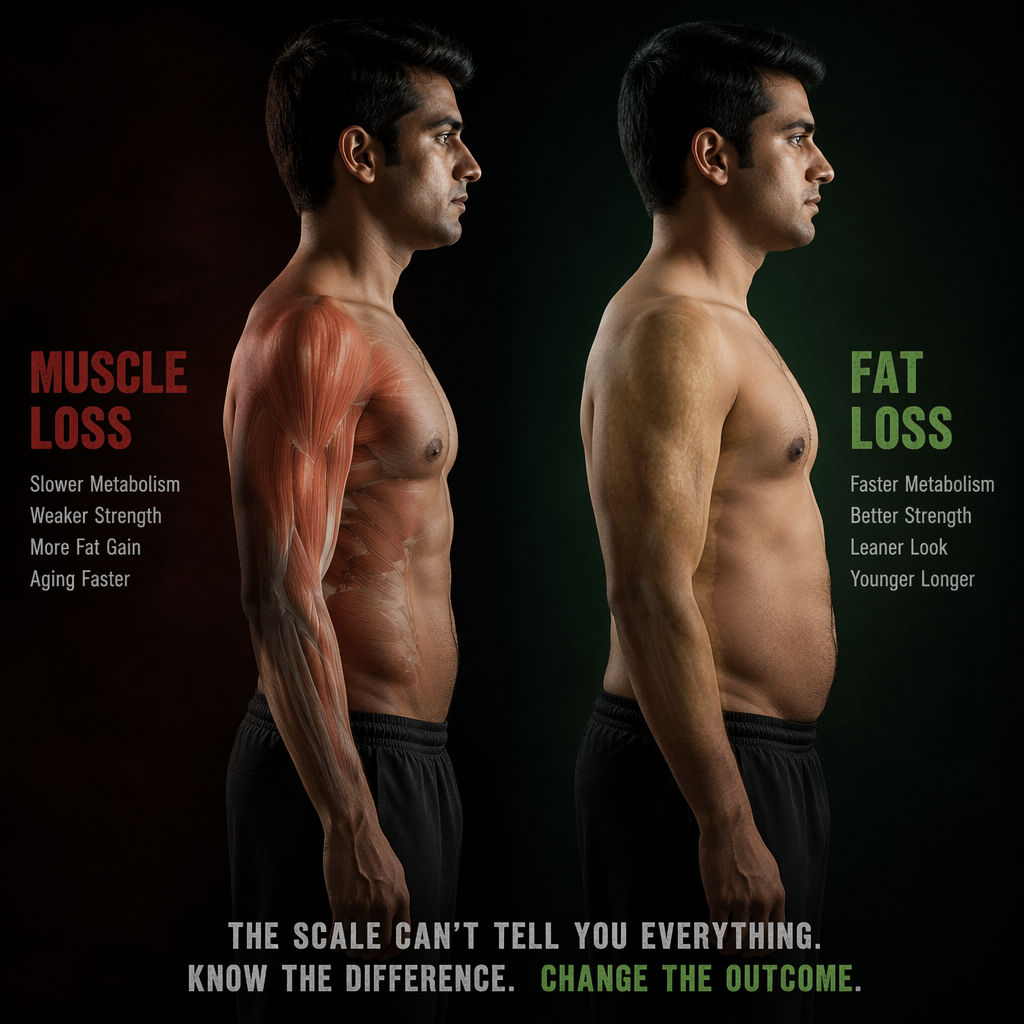
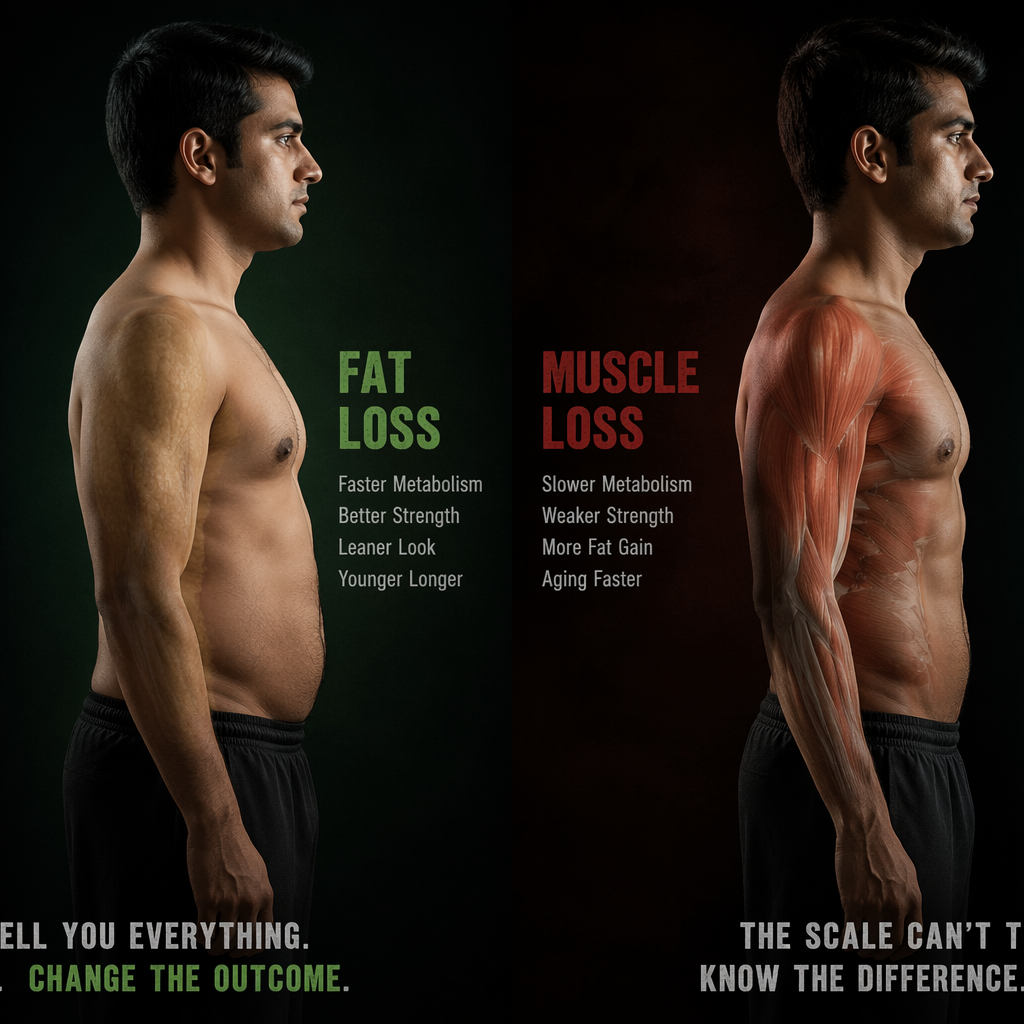
client copy revisions on glp1-side-effects page
- Hero h1 italic: 'Read This First.'
- Truth 01: updated heading/para; new cost note (Mounjaro 10mg ₹32k/mo)
- Removed water-weight truth (was #2)
- Truth 02 (muscle loss): swapped image panels (fat loss left, muscle loss right); minor copy tweaks; removed VLCKD comparison line
- Truth 03 (rebound): tightened to '1.5 yrs'; removed 'Not some patients' line
- Truth 04 (health mirage): ending now '...or even worse'
- Truth 05 (root cause): removed PCOS; ending '...or more (rebound effect)'
- NEW Truth 06: side effects (GI, gallbladder/pancreatitis, NAION)
- Truth 07: GLP-1 price range ₹15k-36k; ₹4L/year max; copy nits
- Section 03: new headline + comparison table (Progen vs GLP-1) + 'Progen is a' intro
- All sections re-alternated white/canvas for visual rhythm

diff --git a/glp1-side-effects-blr.html b/glp1-side-effects-blr.html
@@ -127,6 +127,17 @@ h1,h2,h3,h4{font-family:var(--ff-display);font-weight:500;line-height:1.15;lette
 .truth-stat.good .ts-num{color:var(--teal)}
 
 
+/* ── COMPARE TABLE ── */
+.compare-table{margin:8px 0 32px;border-radius:10px;overflow:hidden;border:1px solid var(--line)}
+.ct-row{display:grid;grid-template-columns:1fr 1fr;border-top:1px solid var(--line)}
+.ct-row:first-child{border-top:none}
+.ct-cell{padding:14px 18px;font-size:15px;color:var(--ink-2);line-height:1.45}
+.ct-cell.ct-progen{background:rgba(13,110,110,.06);color:var(--navy);font-weight:600;border-right:1px solid var(--line)}
+.ct-cell.ct-glp{background:rgba(192,57,43,.04);color:var(--ink-2)}
+.ct-row.ct-head .ct-cell{font-family:var(--ff-mono);font-size:11px;letter-spacing:.14em;text-transform:uppercase;font-weight:700;padding:12px 18px}
+.ct-row.ct-head .ct-progen{color:var(--teal);background:rgba(13,110,110,.1)}
+.ct-row.ct-head .ct-glp{color:var(--red);background:rgba(192,57,43,.08)}
+
 /* ── EXPLAINER IMAGE ── */
 .explainer-img-wrap{margin:18px 0 22px}
 .explainer-img-wrap img{width:100%;display:block;border-radius:10px;box-shadow:0 2px 16px rgba(0,0,0,.08)}
@@ -259,7 +270,7 @@ h1,h2,h3,h4{font-family:var(--ff-display);font-weight:500;line-height:1.15;lette
   <div class="hero-inner">
   <div class="hero-body">
     <div class="hero-eyebrow">Clinical facts · What Instagram hides · Bangalore</div>
-    <h1>Before Your First<br>Weight Loss Injection —<br><em>You Need To Read This.</em></h1>
+    <h1>Before Your First<br>Weight Loss Injection —<br><em>Read This First.</em></h1>
     <p class="hero-lede">GLP-1 injections are dominating social media. Before you decide, here are <strong style="color:#fff">7 clinical facts</strong> the influencers and ads won't show you.</p>
     <div class="hero-source">Based on: NEJM · BMJ (9,000+ patients) · The Lancet · Am J Clin Nutrition</div>
     <div class="hero-scroll">↓ SCROLL TO READ</div>
@@ -279,11 +290,11 @@ h1,h2,h3,h4{font-family:var(--ff-display);font-weight:500;line-height:1.15;lette
       <span class="truth-big-num">01</span>
       <span class="truth-tag">The marketing gap</span>
     </div>
-    <h3>The clinical average weight loss is only 0.5 kg a month</h3>
-    <p>Social media rewards the spectacular. Clinical science measures averages. Across 9,000+ patients in large-scale trials, GLP-1 drugs deliver 0.5–1 kg of fat loss per month — the same result as following a structured diet with zero medication. Nobody posts their month 4 plateau.</p>
+    <h3>The clinical average weight loss through injections is only 0.5–1 kg a month</h3>
+    <p>Social media rewards the spectacular. Clinical science measures averages. Across 9,000+ patients in large-scale trials, GLP-1 drugs deliver 0.5–1 kg of weight loss per month — the same result as following a structured diet with zero medication. Also nobody posts their 6th month plateau (the same dose is not effective for weight loss).</p>
     <div class="truth-stat">
       <div class="ts-num">0.5–1 kg</div>
-      <div class="ts-text">per month — identical to a standard diet, with the added cost of weekly injections, daily nausea, and ₹25,000/month.</div>
+      <div class="ts-text">per month — identical to a standard diet, with the added cost of weekly injections, daily nausea, and high cost/month (₹32,000/month for Mounjaro 10mg).</div>
     </div>
   </div>
 </div>
@@ -293,17 +304,16 @@ h1,h2,h3,h4{font-family:var(--ff-display);font-weight:500;line-height:1.15;lette
   <div class="truth-body">
     <div class="truth-num-row">
       <span class="truth-big-num">02</span>
-      <span class="truth-tag">The water weight trick</span>
+      <span class="truth-tag">The silent consequence</span>
     </div>
-    <h3>GLP-1 suppresses your appetite</h3>
+    <h3>You risk more muscle loss</h3>
     <div class="explainer-img-wrap">
-      <img src="water-weight-explainer.png" alt="Water weight vs actual fat loss — what GLP-1 really burns" loading="lazy"/>
+      <img src="muscle-loss-explainer.png" alt="Fat loss vs muscle loss — the body composition difference" loading="lazy"/>
     </div>
-    <p>GLP-1 suppresses your appetite, cutting food intake dramatically. As calories drop, your body burns through its glycogen stores — the emergency sugar reserve held in muscles and liver. Glycogen binds 3–4 grams of water per gram. When it empties, several kilograms of water flush out within 2 weeks. The scale drops fast. Actual fat loss has barely started. When the drug stops, glycogen refills — and the water returns.</p>
-    <p style="margin-top:12px;font-weight:600;color:var(--navy)">3–5 kg of early weight loss is glycogen and water, not fat. Real fat loss starts only after this initial flush.</p>
+    <p>This is the fact GLP-1 ads never show. When appetite is suppressed and calories drop severely, your body doesn't burn fat — it breaks down muscle too. Research consistently shows <strong>25–40% of weight lost on GLP-1 is lean muscle mass</strong>. Less muscle means a permanently slower metabolism. Your weight is less, but your body has more fat relative to muscle — which makes regaining weight almost inevitable once the drug stops.</p>
     <div class="truth-stat">
-      <div class="ts-num">3–5 kg</div>
-      <div class="ts-text">of early weight loss is glycogen and water, not fat. Real fat loss starts only after this initial flush.</div>
+      <div class="ts-num">25–40%</div>
+      <div class="ts-text">of GLP-1 weight loss is lean muscle, not fat.</div>
     </div>
   </div>
 </div>
@@ -313,16 +323,16 @@ h1,h2,h3,h4{font-family:var(--ff-display);font-weight:500;line-height:1.15;lette
   <div class="truth-body">
     <div class="truth-num-row">
       <span class="truth-big-num">03</span>
-      <span class="truth-tag">The silent consequence</span>
+      <span class="truth-tag">The rebound nobody shows</span>
     </div>
-    <h3>You risk more muscle loss</h3>
+    <h3>If you stop the injection, you could gain back all the weight</h3>
     <div class="explainer-img-wrap">
-      <img src="muscle-loss-explainer.png" alt="Muscle loss vs fat loss — the body composition difference" loading="lazy"/>
+      <img src="rebound-explainer.png" alt="Before and after stopping GLP-1 — the weight regain reality" loading="lazy"/>
     </div>
-    <p>This is the fact GLP-1 ads never show. When appetite is suppressed and calories drop severely, your body doesn't burn pure fat — it breaks down muscle too. Research consistently shows <strong>25–40% of weight lost on GLP-1 is lean muscle mass</strong>. Less muscle means a permanently slower metabolism. You weigh less, but your body has more fat relative to muscle — which makes regaining weight almost inevitable once the drug stops.</p>
+    <p>The 2026 <em>British Medical Journal</em> meta-analysis — the most comprehensive study of its kind, covering over 9,000 patients — found that after stopping GLP-1 treatment, people regain weight at <strong>0.4–0.8 kg every single month</strong>. The average patient returns to their original weight within 1.5 years. The drug suppressed hunger. It did nothing to your metabolism, your habits, or the root causes of weight gain. When the drug stops, everything resumes exactly as before.</p>
     <div class="truth-stat">
-      <div class="ts-num">25–40%</div>
-      <div class="ts-text">of GLP-1 weight loss is lean muscle, not fat. A supervised VLCKD protocol preserves up to 95% lean mass — a fundamentally different outcome.</div>
+      <div class="ts-num">1.5 yrs</div>
+      <div class="ts-text">to return to original weight after stopping GLP-1. Source: West S et al., BMJ 2026 systematic review and meta-analysis.</div>
     </div>
   </div>
 </div>
@@ -332,16 +342,13 @@ h1,h2,h3,h4{font-family:var(--ff-display);font-weight:500;line-height:1.15;lette
   <div class="truth-body">
     <div class="truth-num-row">
       <span class="truth-big-num">04</span>
-      <span class="truth-tag">The rebound nobody shows</span>
+      <span class="truth-tag">The health mirage</span>
     </div>
-    <h3>If you stop the injection, you could gain back all the weight</h3>
-    <div class="explainer-img-wrap">
-      <img src="rebound-explainer.png" alt="Before and after stopping GLP-1 — the weight regain reality" loading="lazy"/>
-    </div>
-    <p>The 2026 <em>British Medical Journal</em> meta-analysis — the most comprehensive study of its kind, covering over 9,000 patients — found that after stopping GLP-1 treatment, people regain weight at <strong>0.4–0.8 kg every single month</strong>. The average patient returns to their original weight within 1.5 to 1.7 years. Not some patients. The average patient. The drug suppressed hunger. It did nothing to your metabolism, your habits, or the root causes of weight gain. When the drug stops, everything resumes exactly as before.</p>
+    <h3>Once you stop GLP-1, all the good things stop too</h3>
+    <p>GLP-1 drugs genuinely improve cardiometabolic markers while you take them — blood pressure drops, cholesterol improves, blood sugar stabilises. This is real. But the same BMJ 2026 review found that every one of these improvements also reverses after stopping treatment, within approximately <strong>1.4 years</strong>. Your underlying health didn't change. The drug was doing the work. When it stops, your biology goes back to exactly where it was or even worse.</p>
     <div class="truth-stat">
-      <div class="ts-num">1.5–1.7 yrs</div>
-      <div class="ts-text">to return to original weight after stopping GLP-1. Source: West S et al., BMJ 2026 systematic review and meta-analysis.</div>
+      <div class="ts-num">~1.4 yrs</div>
+      <div class="ts-text">for blood pressure, cholesterol, and blood sugar improvements to fully reverse after stopping GLP-1 medication.</div>
     </div>
   </div>
 </div>
@@ -351,14 +358,10 @@ h1,h2,h3,h4{font-family:var(--ff-display);font-weight:500;line-height:1.15;lette
   <div class="truth-body">
     <div class="truth-num-row">
       <span class="truth-big-num">05</span>
-      <span class="truth-tag">The health mirage</span>
+      <span class="truth-tag">The root cause problem</span>
     </div>
-    <h3>Once you stop GLP-1, all the good things stop too</h3>
-    <p>GLP-1 drugs genuinely improve cardiometabolic markers while you take them — blood pressure drops, cholesterol improves, blood sugar stabilises. This is real. But the same BMJ 2026 review found that every one of these improvements also reverses after stopping treatment, within approximately <strong>1.4 years</strong>. Your underlying health didn't change. The drug was doing the work. When it stops, your biology goes back to exactly where it was.</p>
-    <div class="truth-stat">
-      <div class="ts-num">~1.4 yrs</div>
-      <div class="ts-text">for blood pressure, cholesterol, and blood sugar improvements to fully reverse after stopping GLP-1 medication.</div>
-    </div>
+    <h3>It never fixes the root cause of weight gain</h3>
+    <p>Obesity is not caused by a lack of medication. It is driven by metabolic dysfunction, hormonal imbalance, insulin resistance, thyroid issues, and years of accumulated lifestyle patterns. GLP-1 suppresses appetite. It addresses none of these. When the drug stops, every one of those root causes is exactly where you left it — ready to drive the same weight gain again or more (rebound effect). You haven't been treated. You've been suppressed.</p>
   </div>
 </div>
 
@@ -367,10 +370,12 @@ h1,h2,h3,h4{font-family:var(--ff-display);font-weight:500;line-height:1.15;lette
   <div class="truth-body">
     <div class="truth-num-row">
       <span class="truth-big-num">06</span>
-      <span class="truth-tag">The root cause problem</span>
+      <span class="truth-tag">The hidden risks</span>
     </div>
-    <h3>It never fixes the root cause of weight gain</h3>
-    <p>Obesity is not caused by a lack of medication. It is driven by metabolic dysfunction, hormonal imbalance, insulin resistance, PCOS, thyroid issues, and years of accumulated lifestyle patterns. GLP-1 suppresses appetite. It addresses none of these. When the drug stops, every one of those root causes is exactly where you left it — ready to drive the same weight gain again. You haven't been treated. You've been suppressed.</p>
+    <h3>A long list of side effects for very little weight loss</h3>
+    <p>GLP-1 receptor agonists come with side effects. The most common are gastrointestinal — including nausea, vomiting, diarrhea, constipation, and slow gastric emptying, which causes bloating, discomfort, and gastroesophageal reflux.</p>
+    <p style="margin-top:14px">There is also a risk of gallbladder issues — including gallstones — and pancreatitis.</p>
+    <p style="margin-top:14px">Serious risks include potential thyroid tumors, bone loss, suicidal thoughts, and a higher risk of non-arteritic anterior ischemic optic neuropathy (NAION) — an "eye stroke" causing sudden, permanent vision loss.</p>
   </div>
 </div>
 
@@ -382,10 +387,10 @@ h1,h2,h3,h4{font-family:var(--ff-display);font-weight:500;line-height:1.15;lette
       <span class="truth-tag">The lifetime cost</span>
     </div>
     <h3>It's expensive (₹25,000/mo) and results reverse if you stop</h3>
-    <p>Popular weight loss injections are priced at <strong>₹15,000–25,000 per month</strong> in India. Since stopping the drug means regaining all the weight, anyone seeking permanent results is effectively committing to injections for life. That's ₹1.8 lakh to ₹3 lakh per year — indefinitely. Meanwhile, a medically supervised programme that addresses root causes, preserves muscle, and delivers <em>permanent</em> results exists. It costs a fraction of one year's injection spend, once.</p>
+    <p>GLP-1 injections are priced at <strong>₹15,000–36,000 per month</strong> in India. Since stopping the drug means regaining all the weight, anyone seeking permanent results is effectively committing to injections for life. That's ₹1.8 lakh to ₹4 lakh per year — indefinitely. Meanwhile, a medically supervised programme that addresses root causes, preserves muscle, and delivers <em>permanent</em> results exists. It costs a fraction of one year's GLP-1 spend, once.</p>
     <div class="truth-stat">
       <div class="ts-num">₹3L/year</div>
-      <div class="ts-text">Upper cost of a lifetime on weight loss injections in India. For a result that reverses within 1.5 years of stopping — vs. a one-time programme that builds permanent change.</div>
+      <div class="ts-text">Upper cost of lifetime GLP-1 in India. For a result that reverses within 1.5 years of stopping — vs. a one-time programme that builds permanent change.</div>
     </div>
   </div>
 </div>
@@ -395,12 +400,26 @@ h1,h2,h3,h4{font-family:var(--ff-display);font-weight:500;line-height:1.15;lette
 <!-- ══ SECTION 03: WHAT'S POSSIBLE ══ -->
 <section class="section-white section-pad">
   <div class="wrap">
-    <h2 class="section-h2">There's a safe way to lose weight and quick too</h2>
-    <p style="margin-top:10px;margin-bottom:28px;font-size:16px;color:var(--ink-2);line-height:1.65">Over 1M+ people have reduced weight safely and without GLP-1 with our method.</p>
+    <h2 class="section-h2">There's a safer way to lose more weight — 10kg in 30 days</h2>
+    <p style="margin-top:10px;margin-bottom:28px;font-size:16px;color:var(--ink-2);line-height:1.65">1M+ people have reduced weight safely and without GLP-1.</p>
+    <div class="compare-table">
+      <div class="ct-row ct-head">
+        <div class="ct-cell ct-progen">Progen Method</div>
+        <div class="ct-cell ct-glp">GLP-1</div>
+      </div>
+      <div class="ct-row">
+        <div class="ct-cell ct-progen">10 kg in 30 days</div>
+        <div class="ct-cell ct-glp">0.5 kg in 30 days</div>
+      </div>
+      <div class="ct-row">
+        <div class="ct-cell ct-progen">No weight rebound risk</div>
+        <div class="ct-cell ct-glp">High weight rebound risk</div>
+      </div>
+    </div>
     <div class="explainer-img-wrap">
       <img src="possible-hero.png" alt="10kg in 30 days — no injections, no drugs" loading="lazy"/>
     </div>
-    <p class="possible-intro-text">There is a <strong>medically supervised programme</strong> that consistently outperforms GLP-1 on every metric that matters — speed of fat loss, body composition, and permanence. It is backed by 80+ published clinical studies, trusted by over 1 million patients across 22 countries, with 25 years of documented outcomes. And it involves no injections, no drugs, and no lifetime dependency.</p>
+    <p class="possible-intro-text">Progen is a <strong>medically supervised programme</strong> that consistently outperforms GLP-1 on every metric that matters — speed of fat loss, body composition, and permanence. It is backed by 80+ published clinical studies, trusted by over 1 million patients across 22 countries, with 25 years of documented outcomes. And it involves no injections, no drugs, and no lifetime dependency.</p>
 
     <div class="result-card">
       <div class="result-body">
